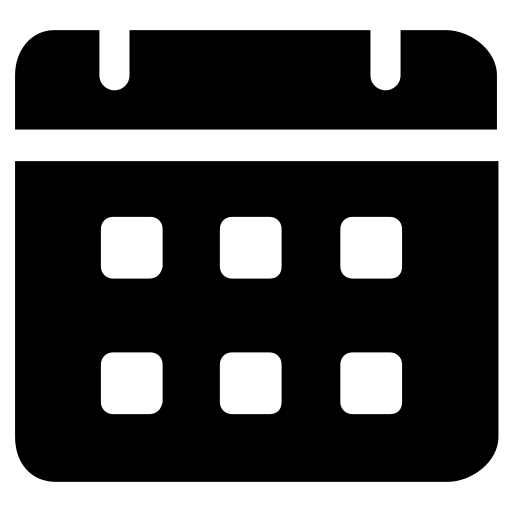
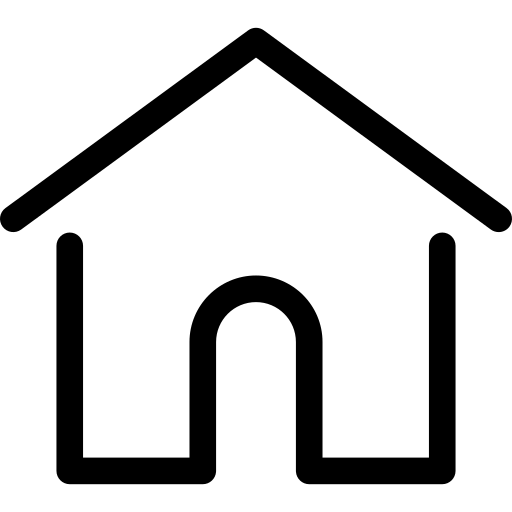
Add files via upload

diff --git a/settings.html b/settings.html
@@ -1,0 +1,215 @@
+<!DOCTYPE html>
+<html lang="en">
+<head>
+  <meta charset="UTF-8">
+  <meta name="viewport" content="width=device-width, initial-scale=1.0">
+  <title>ArcticFlow</title>
+  <link rel="stylesheet" href="style.css">
+  <link rel="stylesheet" href="https://cdnjs.cloudflare.com/ajax/libs/font-awesome/6.7.2/css/all.min.css">
+</head>
+<body>
+
+     <!-- navbar  -->
+
+  <nav class="navbar" id="home">
+    <div class="logo">
+
+        <!-- logo  -->
+      <img src="./ice.png" alt="logo">
+      <span>ArcticFlow</span>
+    </div>
+
+    <input type="checkbox" id="menutoggle">
+
+    <label for="menutoggle" class="menubtn">
+  <i class="fa-solid fa-bars"></i>
+</label>
+
+    <!-- links  -->
+
+    <ul class="navlinks">
+      <li><a href="#home">Home</a></li>
+      <li><a href="#services">Services</a></li>
+      <li><a href="#about">About</a></li>
+      <li><a href="#reviews">Reviews</a></li>
+      <li><a href="#contact">Contact</a></li>
+      <li><button class="quotebtn mobilequote">Get a Free Quote</button></li>
+    </ul>
+
+    <button class="quotebtn desktopquote">Get a Free Quote</button>
+
+
+  </nav>
+
+      <!-- body hero  -->
+
+  <section class="hero">
+    <div class="herotext">
+      <h1>Stay Cool, Stay Comfortable.<br>Expert AC Installation You Trust.</h1>
+      <p>Reliable, energy efficient and fast AC service for your home and office.</p>
+
+      <div class="herobuttons">
+        <button>Book Installation Today</button>
+        <button class="lightbtn">Speak with Specialist</button>
+      </div>
+
+      <div class="features">
+        <span>5 Star Rated</span>
+        <span>Licensed Workers</span>
+        <span>Same-Day Appointments</span>
+      </div>
+    </div>
+       
+
+    <div class="heroimg">
+      <img src="./ac.jpg" alt="AC technician">
+    </div>
+  </section>
+
+  <section class="services" id="services">
+    <h2>Our Services</h2>
+
+      <!-- hero cards  -->
+
+    <div class="cards">
+      <div class="card">
+        <div class="icon">
+          <img src="./ice.png" alt="AC icon">
+        </div>
+        <h3>AC Installation</h3>
+        <p>Professional installation of air conditioning systems for homes and offices.</p>
+        <button>Learn More</button>
+      </div>
+
+     
+
+      <div class="card">
+        <div class="icon">
+          <img src="./package.png" alt="package icon">
+        </div>
+        <h3>AC Replacement</h3>
+        <p>Upgrade your old AC with modern units to reduce cooling cost.</p>
+        <button>Learn More</button>
+      </div>
+
+
+
+      <div class="card">
+        <div class="icon">
+          <img src="./tools.png" alt="tools icon">
+        </div>
+        <h3>Maintenance & Repair</h3>
+        <p>Keep your AC running smoothly with regular maintenance and repair.</p>
+        <button>Learn More</button>
+      </div>
+    </div>
+  </section>
+
+  <section class="middle" id="about">
+    <div class="testimonials" id="reviews">
+      <h2>Testimonials</h2>
+
+      <div class="reviewbox">
+        <div class="review">
+          <img src="./human face1.jpg" alt="customer">
+          <p>They installed my AC neatly and finished the work on time.</p>
+          <small>Best service</small>
+          <h4>Navya</h4>
+        </div>
+
+        <div class="review">
+          <img src="./human face 2.jpg" alt="customer">
+          <p>The worker explained everything clearly before installation.</p>
+          <small>Best worker</small>
+          <h4>Nikola</h4>
+        </div>
+
+        <div class="review">
+          <img src="./human face 3.jpg" alt="customer">
+          <p>Good service and they came at the correct time.</p>
+          <small>On-time service</small>
+          <h4>Thomas</h4>
+        </div>
+      </div>
+    </div>
+
+    <div class="choose">
+      <h2>Why Choose Us?</h2>
+      <p>Certified Technicians</p>
+      <p>Transparent Pricing</p>
+      <p>Fast Response Time</p>
+      <p>Reliable Support</p>
+    </div>
+  </section>
+
+  <section class="process">
+    <h2>How it works?</h2>
+
+    <div class="steps">
+      <div class="step">
+        <div class="circle">
+          <img src="./calendar.png" alt="calendar">
+        </div>
+        <p>Book an Appointment</p>
+      </div>
+
+      <div class="line"></div>
+
+      <div class="step">
+        <div class="circle">
+          <img src="./home.png" alt="home">
+        </div>
+        <p>On-site Assessment</p>
+      </div>
+
+      <div class="line"></div>
+
+      <div class="step">
+        <div class="circle">
+          <img src="./settings.png" alt="settings">
+        </div>
+        <p>Installation & Testing</p>
+      </div>
+
+      <div class="line"></div>
+
+      <div class="step">
+        <div class="circle">
+          <img src="./tools.png" alt="tools">
+        </div>
+        <p>Post-Service Support</p>
+      </div>
+    </div>
+  </section>
+
+  <!-- contacts -->
+
+  <section class="cta" id="contact">
+    <h2>Ready to get started?</h2>
+    <button>Call Now: [phone redacted]</button>
+  </section>
+
+  <!-- footer  -->
+
+  <footer>
+    <div>
+      <h4>Contact Details</h4>
+      <p>9947648365</p>
+      <p>9164725582</p>
+    </div>
+
+    <div>
+      <h4>Service Areas</h4>
+      <p>Kasaragod</p>
+      <p>Kannur</p>
+    </div>
+
+    <div>
+      <h4>More Details</h4>
+      <p>11AM - 2PM</p>
+      <p>Monday - Friday</p>
+    </div>
+  </footer>
+
+</body>
+</html>